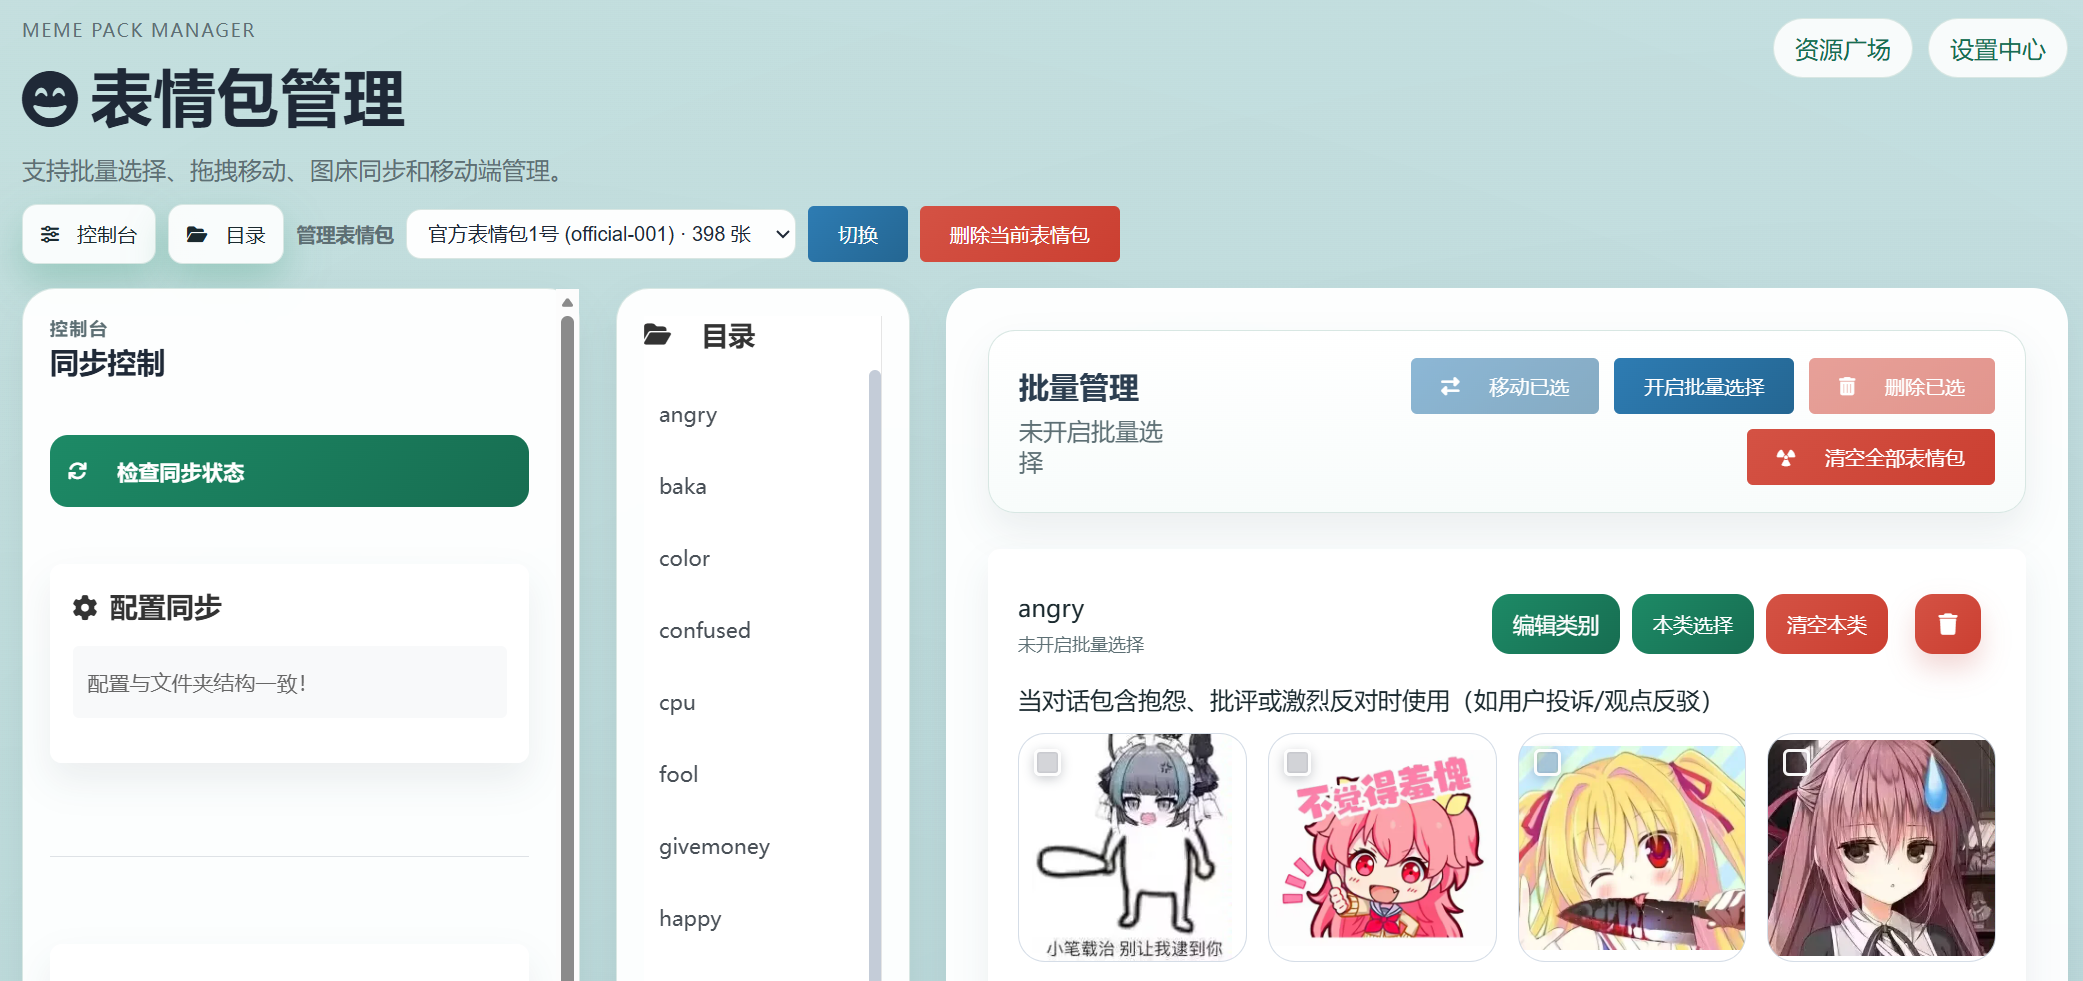
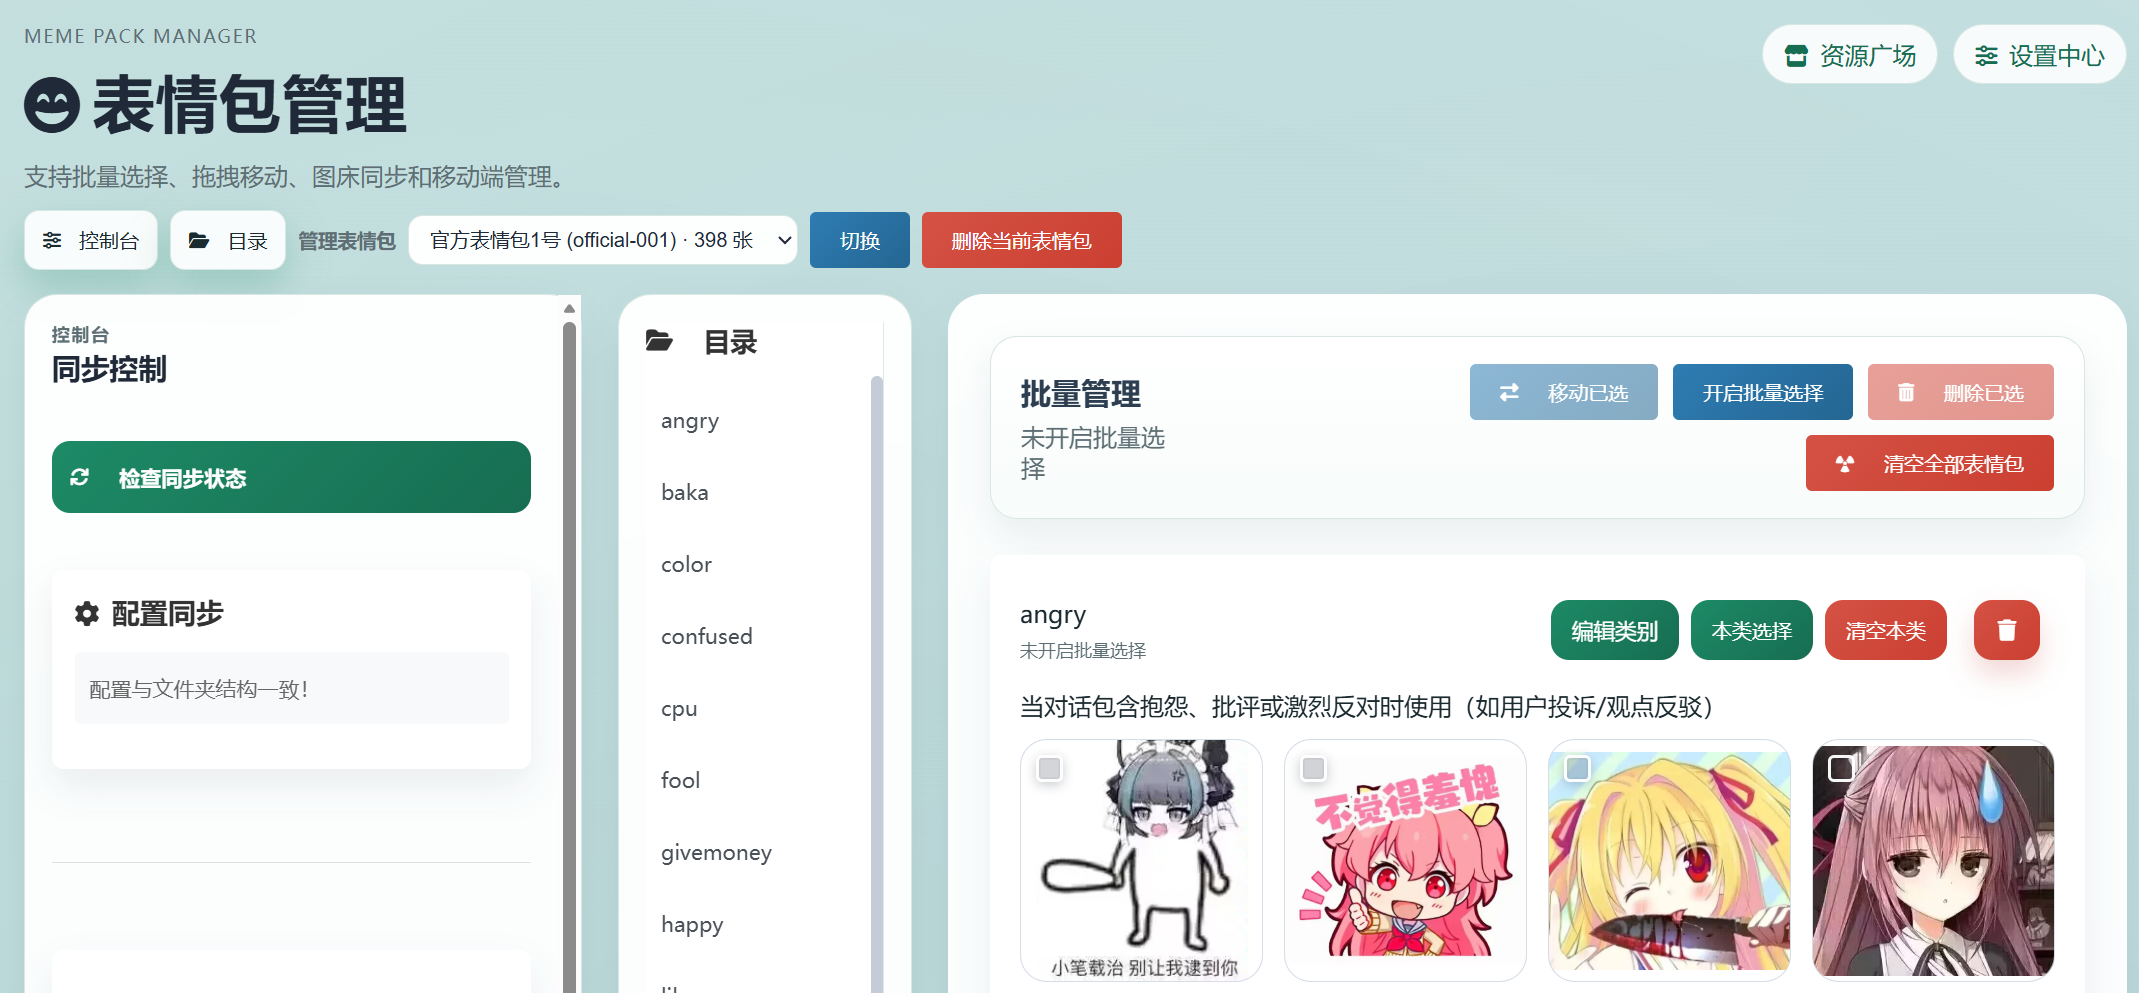
style: 修正样式+更新预览图片

diff --git a/pages/settings/index.html b/pages/settings/index.html
@@ -24,14 +24,14 @@
           class="nav-link"
           href="../a_manage/index.html"
           data-nav-target="../a_manage/index.html"
-          >返回管理页</a
+          ><i class="fas fa-gear icon"></i>返回管理页</a
         >
         <a
           class="nav-link"
           href="../catalog/index.html"
           data-nav-target="../catalog/index.html"
           data-nav-view="catalog"
-          >资源广场</a
+          ><i class="fas fa-store icon"></i>资源广场</a
         >
       </div>
     </header>

diff --git a/pages/a_manage/index.html b/pages/a_manage/index.html
@@ -121,13 +121,13 @@
           href="../catalog/index.html"
           data-nav-target="../catalog/index.html"
           data-nav-view="catalog"
-          >资源广场</a
+          ><i class="fas fa-store icon"></i>资源广场</a
         >
         <a
           class="nav-link"
           href="../settings/index.html"
           data-nav-target="../settings/index.html"
-          >设置中心</a
+          ><i class="fas fa-sliders icon"></i>设置中心</a
         >
       </div>
     </header>
